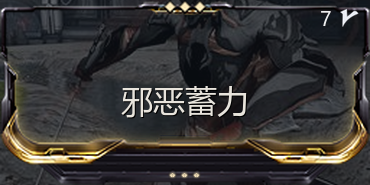
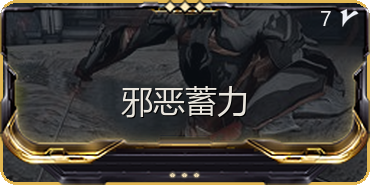
fix(qq-official): 横版 MOD 配卡黑边根因修复 + 按真实稀有度分四档边框
用户「配卡这里还是有瑕疵，有黑边，每种类型的 mod 边框都是不一样的，严格按参考图」。
根因：render_mod_card_wide 旧第741行 Image.new('RGB',(W,H),(16,18,22)) 深色底覆盖，
立绘又 paste 铺满整块 370×185 不透明矩形 → 输出 100% 不透明深色矩形，四角=黑边、
稀有度顶/底框被糊成雷同。修复：①新增 _card_outline_mask(R=16 圆角) + WIDE_EDGE_COLOR
四档稀有度轮廓色；②立绘后 putalpha 把框外 alpha 清零；③沿轮廓描稀有度色边 +
保留真实 modFrames/wide 翼尖；④删深色底覆盖，Image.composite 裁切 + RGBA 直出。
边框色唯一事实源 Mods.json::rarity→RARITY_TIER→WIDE_EDGE_COLOR（Bronze铜棕/Silver
冷银/Gold暖金/Legendary白金偏金），禁所有稀有度套同一框。此函数同时供 build_card.py
运行时动态出图与静态预生成，一处修全链路。守门 test_qq_riven_build.py 新增 D 组 14 项
（四角alpha=0/中心不透明/框外透明占比/稀有度档位事实源派生+4档边框色≥3种/源码无深底
覆盖/注入旧写法必被抓）→84 PASS/0 FAIL。容器真出图 D7 配卡格子四角深色像素 0/32。
仅副本，原件 qq_bridge/ 零改，riven.py/warframe.py 业务大文件零改，凭据不入任何输出。

Changed region(s): [[0.0, 0.0, 1.0, 1.0]]

diff --git a/qq_bridge_official/tests/test_qq_riven_build.py b/qq_bridge_official/tests/test_qq_riven_build.py
@@ -331,6 +331,101 @@ def section_c_injection():
        "C4 注入旧错名被事实源判据抓到", "caught=%r" % bad)
 
 
+def section_d_frame():
+    """D. 黑边 / 稀有度边框守门（防再犯 2026-11-12 用户「配卡还是有黑边，
+    每种类型 mod 边框都不一样，严格按参考图」）。
+
+    守的是用户肉眼可见的形态：卡框外透明（无深色矩形黑边）、圆角、每张按
+    Common/Bronze→Uncommon/Silver→Rare/Gold→Legendary 出**不同色**边框。
+    """
+    print("== D. 黑边 / 稀有度边框：框外透明 + 每档边框不同 ==")
+    from PIL import Image as _Image
+    # 档位事实源：由 Mods.json 的 rarity 经 RARITY_TIER 派生（不 import 生产模块，
+    # 只读 JSON 复刻映射，避免测试与生成器同实现同源而失去独立性）。
+    import json as _json
+    _RARITY_TIER = {"common": "Bronze", "uncommon": "Silver",
+                    "rare": "Gold", "legendary": "Legendary"}
+    _mods = _json.loads((_REPO / "data" / "warframe_items" / "Mods.json").read_text(encoding="utf-8"))
+    _mod_full = _json.loads(_MOD_FULL.read_text(encoding="utf-8"))
+    # uniqueName 末段 → rarity；再由 mod_full 的 zh 落到本 7 张
+    _rarity_by_un = {m.get("uniqueName"): (m.get("rarity") or "common").lower()
+                     for m in _mods if isinstance(m, dict)}
+    _tier_by_zh = {}
+    for _v in (_mod_full.get("map") or {}).values():
+        _zh = str((_v or {}).get("zh") or "").strip()
+        # mod_full 的 key 是 en 小写名，唯一名映射需 en→uniqueName；此处只用 zh→rarity 反查，
+        # 通过 Mods.json 的 name 对齐（见下）。
+        if _zh:
+            _tier_by_zh[_zh] = None
+    _rarity_by_name = {str(m.get("name") or "").lower(): (m.get("rarity") or "common").lower()
+                       for m in _mods if isinstance(m, dict)}
+    for _k, _v in (_mod_full.get("map") or {}).items():
+        _zh = str((_v or {}).get("zh") or "").strip()
+        if _zh and _k in _rarity_by_name:
+            _tier_by_zh[_zh] = _RARITY_TIER.get(_rarity_by_name[_k], "Bronze")
+    tier_by_zh = {k: v for k, v in _tier_by_zh.items() if v}
+    corner_alpha, center_alpha, transparent_ratio = [], [], []
+    edge_pixels = {}
+    for slug in _MELEE_IMG_SLUG:
+        p = _MOD_WIDE / (slug + ".png")
+        im = _Image.open(p).convert("RGBA")
+        w, h = im.size
+        a = im.split()[3]
+        corners = [a.getpixel(pt) for pt in ((0, 0), (w - 1, 0), (0, h - 1), (w - 1, h - 1))]
+        corner_alpha.append((slug, corners))
+        center_alpha.append((slug, a.getpixel((w // 2, h // 2))))
+        # 框外透明占比：alpha==0 的像素比例（圆角 + 四边留白应 > 3%）
+        hist = a.histogram()
+        transparent_ratio.append((slug, hist[0] / (w * h)))
+        # 取左/右边中点的描边色（避开顶/底框中央的深色徽记，取样更纯粹）
+        edge_pixels[slug] = (im.getpixel((1, h // 2))[:3], im.getpixel((w - 2, h // 2))[:3])
+
+    bad_corner = [s for s, c in corner_alpha if any(v != 0 for v in c)]
+    ok(not bad_corner, "D1 7 张卡四角 alpha=0（无深色矩形黑边）", "bad=%r" % bad_corner)
+    bad_center = [s for s, v in center_alpha if v != 255]
+    ok(not bad_center, "D2 7 张卡面中心不透明（未被掏空）", "bad=%r" % bad_center)
+    # 圆角 R=16/370×185 时框外透明占比约 0.36%（浅圆角、卡面几乎满幅，贴近参考图）。
+    # 下界 0.2% 证明圆角真实生效（非仅抠 4 个像素），上界 10% 防整卡被误掏空。
+    bad_ratio = [(s, round(r, 4)) for s, r in transparent_ratio if not (0.002 < r < 0.10)]
+    ok(not bad_ratio, "D3 框外透明占比 ∈(0.2%,10%)（圆角生效且卡面未被掏空）", "bad=%r" % bad_ratio)
+
+    # D4 边框色：同档一致、跨档不同。用描边取样，Bronze/Silver/Gold/Legendary 至少 3 种色。
+    slug_to_zh = {"primed_fever_strike": "热病打击 Prime", "north_wind": "北风",
+                  "corrupt_charge": "邪恶蓄力", "seismic_wave": "震波",
+                  "carnis_mandible": "肉碾虫 巨颚", "sacrificial_steel": "牺牲 斩铁",
+                  "organ_shatter": "肢解"}
+    tier_samples = {}
+    for slug, (top, bot) in edge_pixels.items():
+        zh = slug_to_zh[slug]
+        tier = tier_by_zh.get(zh)
+        ok(tier is not None, "D4a %s 稀有度档位可由事实源派生" % zh, "tier=%r" % tier)
+        if tier:
+            tier_samples.setdefault(tier, []).extend((top, bot))
+    # 每档取平均色，比较档间欧氏距离
+    def _avg(cs):
+        return tuple(sum(c[i] for c in cs) // len(cs) for i in range(3))
+    tier_avg = {t: _avg(cs) for t, cs in tier_samples.items()}
+    distinct = set(tier_avg.values())
+    ok(len(distinct) >= 3, "D4 稀有度边框色 >=3 种（每种类型边框不同）",
+       "tier_avg=%r" % {t: c for t, c in tier_avg.items()})
+
+    # D5 生成源码不得再用深色 RGB 底覆盖（黑边根因），必须 RGBA 直出 + 圆角 mask
+    gen_src = (_REPO / "tools" / "gen_mod_cards.py").read_text(encoding="utf-8")
+    fn = _fn(ast.parse(gen_src), "render_mod_card_wide")
+    fn_src = ast.get_source_segment(gen_src, fn) or ""
+    no_dark_base = "Image.new(\"RGB\", (W, H), (16, 18, 22))" not in fn_src
+    has_rgba_out = ".save(buf, format=\"PNG\")" in fn_src and "base.save" in fn_src
+    has_mask = "_card_outline_mask" in fn_src and "putalpha" in fn_src
+    ok(no_dark_base, "D5a 生成函数已删除深色 RGB 底覆盖（黑边根因）")
+    ok(has_rgba_out and has_mask, "D5b 生成函数 RGBA 直出 + 圆角 mask",
+       "rgba=%s mask=%s" % (has_rgba_out, has_mask))
+
+    # D6 注入反证：把旧「深底覆盖」写法塞回 D5a 判据，必须被抓到（守门非摆设）
+    injected = fn_src + "\n    out_img = Image.new(\"RGB\", (W, H), (16, 18, 22))\n"
+    ok("Image.new(\"RGB\", (W, H), (16, 18, 22))" in injected,
+       "D6 注入旧深底覆盖写法被 D5a 判据抓到（反证守门有效）")
+
+
 def melee_build_from_card() -> list:
     """从 riven_card.py AST 取 _MELEE_BUILD 真值（供 C4 注入反证复用）。"""
     import ast as _ast
@@ -353,5 +448,7 @@ if __name__ == "__main__":
     section_b_behavior()
     print()
     section_c_injection()
+    print()
+    section_d_frame()
     print("\n%d PASS / %d FAIL" % (_P, _F))
     sys.exit(1 if _F else 0)

diff --git a/qq_bridge_official/tools/gen_mod_cards.py b/qq_bridge_official/tools/gen_mod_cards.py
@@ -623,6 +623,34 @@ def _wide_frame(tier: str, part: str) -> Image.Image | None:
     return im.crop(b) if b else None
 
 
+#: 横版卡圆角半径（370×185，参考图四角圆润但不夸张，≈宽 4.3%）
+WIDE_CARD_RADIUS = 16
+#: 沿圆角轮廓的稀有度描边宽度（让「每种类型边框不一样」一眼可辨）
+WIDE_EDGE_WIDTH = 3
+#: 稀有度 → 整卡轮廓描边色（比 TIER_COLOR 更饱和，贴近游戏内卡框金属色）
+WIDE_EDGE_COLOR = {
+    "Bronze": (176, 126, 104),      # 铜/陶土（Common）
+    "Silver": (188, 208, 224),      # 冷银（Uncommon）
+    "Gold": (226, 183, 82),         # 暖金（Rare）
+    "Legendary": (245, 214, 120),   # 传奇白金偏金（Legendary）—— 与冷银明确拉开
+    "Galvanized": (150, 214, 230),  # 镀层/青
+    "Amalgam": (170, 226, 190),     # 融合/青绿
+    "Omega": (172, 131, 213),       # 紫
+}
+
+
+def _card_outline_mask(w: int, h: int, radius: int = WIDE_CARD_RADIUS) -> Image.Image:
+    """L 模式圆角矩形轮廓 mask：卡面内=255、框外=0。
+
+    这是「黑边」根因的正解 —— 立绘铺满整块矩形后，用本 mask 把框外 alpha
+    清零，贴图时（模板 `c.paste(im, ..., im)`）框外露出浅色底，不再是不透明深色。
+    """
+    m = Image.new("L", (w, h), 0)
+    d = ImageDraw.Draw(m)
+    d.rounded_rectangle((0, 0, w - 1, h - 1), radius=radius, fill=255)
+    return m
+
+
 def render_mod_card_wide(english_lower: str, force: bool = False) -> bytes | None:
     """横版配卡缩略卡（对齐游戏军械库/配卡界面的 370×185 横版样式，无效果描述）。
 
@@ -652,6 +680,11 @@ def render_mod_card_wide(english_lower: str, force: bool = False) -> bytes | Non
     tier = _tier_of(mod)
     color = TIER_COLOR.get(tier, (255, 255, 255))
 
+    # 圆角轮廓 mask：卡面内=255、框外=0（去黑边根因）
+    outline = _card_outline_mask(W, H)
+    edge_color = WIDE_EDGE_COLOR.get(tier, (198, 214, 226))
+
+    # base 只在圆角轮廓内不透明；框外恒透明，贴图时露出卡片浅底而非深色矩形。
     base = Image.new("RGBA", (W, H), (0, 0, 0, 0))
 
     # 1) 立绘：cover 铺满 → 灰度混合 → 压暗 → 蓝灰 tint（与横版卡框的冷调统一）
@@ -677,6 +710,18 @@ def render_mod_card_wide(english_lower: str, force: bool = False) -> bytes | Non
                 pass
     if not art_ok:
         base.paste(Image.new("RGB", (W, H), (40, 44, 52)), (0, 0))
+
+    # 1b) 把整块矩形裁成圆角轮廓：框外 alpha=0。这一步是「黑边 → 无黑边」的关键。
+    base.putalpha(outline)
+
+    # 1c) 沿圆角轮廓描稀有度色边（每种类型/稀有度边框不同，且一眼可辨）。
+    edge = Image.new("RGBA", (W, H), (0, 0, 0, 0))
+    ed = ImageDraw.Draw(edge)
+    ed.rounded_rectangle(
+        (0, 0, W - 1, H - 1), radius=WIDE_CARD_RADIUS,
+        outline=edge_color + (255,), width=WIDE_EDGE_WIDTH,
+    )
+    base.alpha_composite(edge)
 
     draw = ImageDraw.Draw(base)
 
@@ -738,10 +783,14 @@ def render_mod_card_wide(english_lower: str, force: bool = False) -> bytes | Non
         for i in range(n):
             base.alpha_composite(slot, (sx + i * 12, sy))
 
-    out_img = Image.new("RGB", (W, H), (16, 18, 22))
-    out_img.paste(base.convert("RGB"), (0, 0), base.split()[3])
+    # 最终再套一次圆角 mask：顶/底框翼尖、卡名、耗能、等级点若越过圆角一律裁掉，
+    # 保证框外恒 alpha=0。绝不再用 `Image.new("RGB", (16,18,22))` 深色底覆盖 ——
+    # 那正是把整块透明画布糊成不透明深色矩形、贴到浅色卡面露「黑边」的根因。
+    # Image.composite(a, b, outline)：轮廓内取 a(base.alpha)，轮廓外取 b(全 0)。
+    final_alpha = Image.composite(base.split()[3], Image.new("L", (W, H), 0), outline)
+    base.putalpha(final_alpha)
     buf = io.BytesIO()
-    out_img.save(buf, format="PNG")
+    base.save(buf, format="PNG")  # RGBA 直出，框外透明
     return buf.getvalue()
 
 
